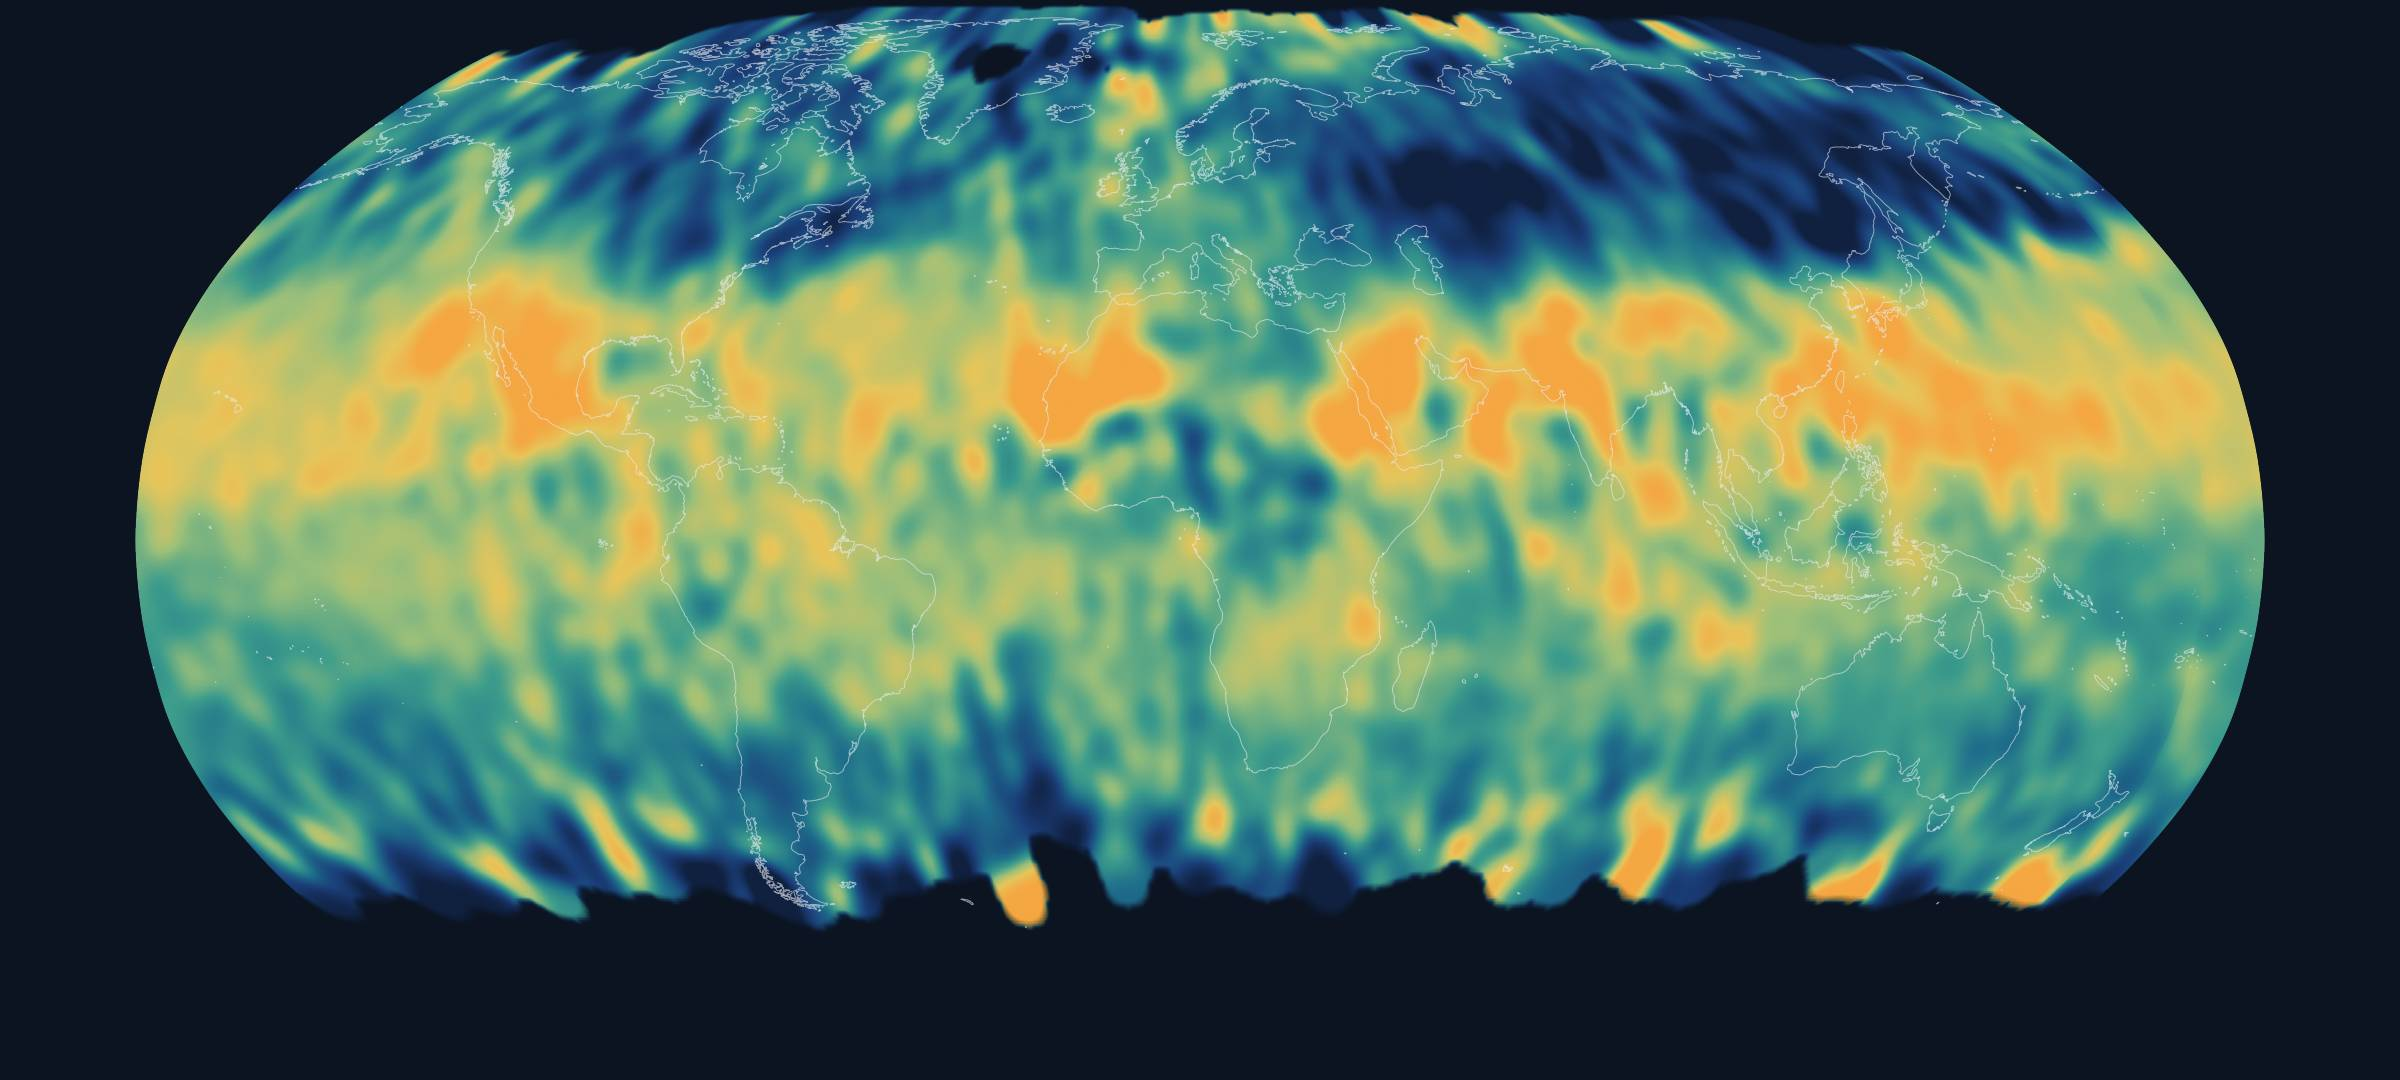
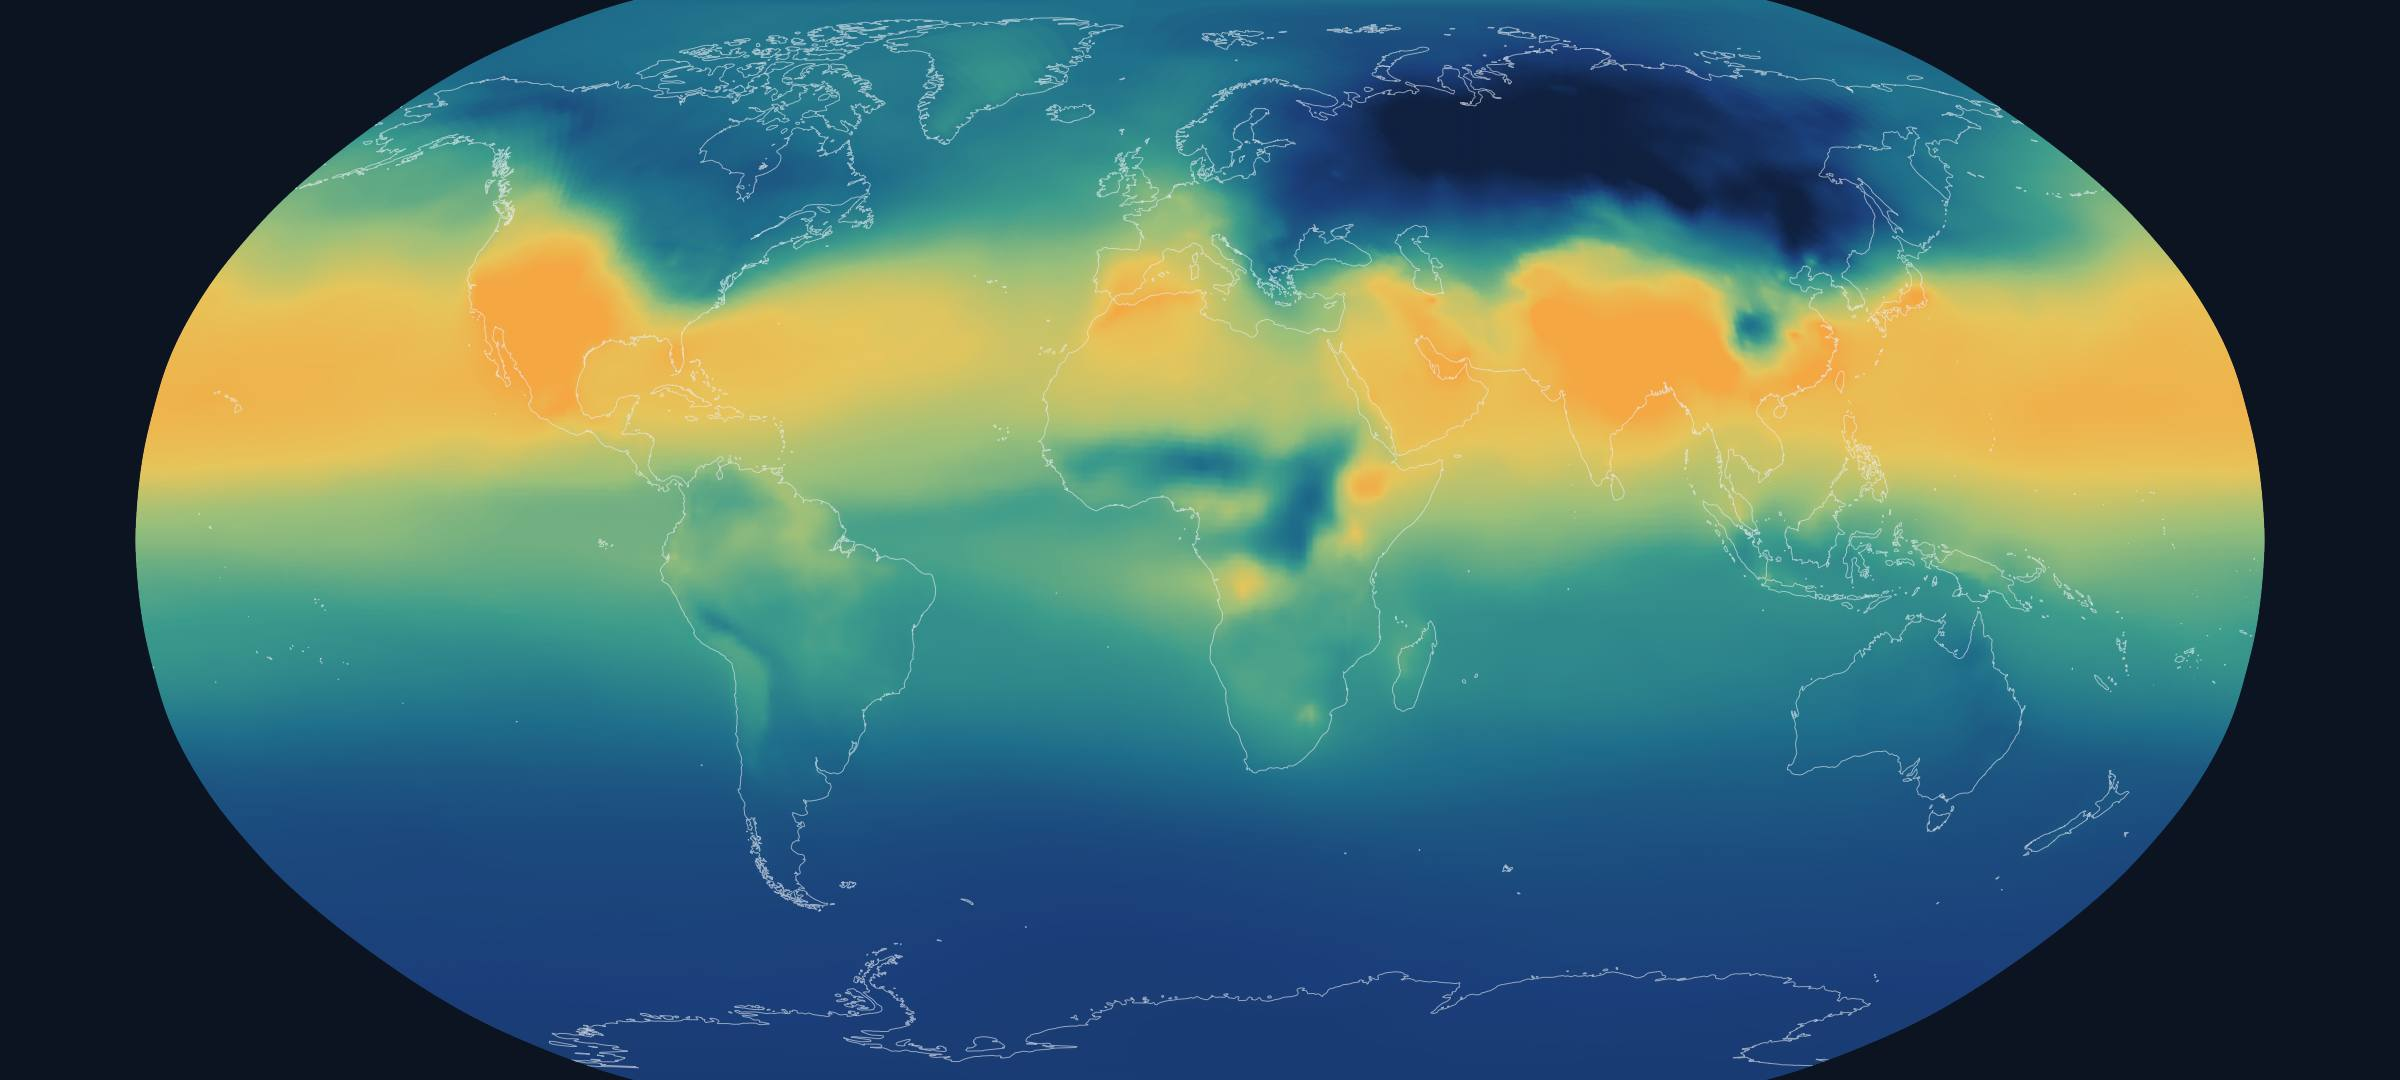
oco: hero from the CATRINE C90 JJA 2019 mean XCO2 field, plus a 46-frame GIF

diff --git a/oco/data/README.md b/oco/data/README.md
@@ -91,8 +91,8 @@ snow 0.955/0.156/0.052, conifer 0.652/0.261/0.112, dry grass 0.517/0.597/0.452.
 
 `img/xco2_hero.jpg` (2400 × 1080, dark background, < 400 kB): **JJA 2019 mean XCO₂ from the AtmosTransport CATRINE
 C90 run** (`co2_natural`, dry-air-mass-weighted column, 8 snapshots/day × 92 days, nearest-cell regridded to 0.25°,
-σ = 1 cell smoothing, dark-blue → gold ramp, subtle coastlines, no axes/labels). `img/xco2_hero_jja2019.gif` is the
-same field day by day at 12 UTC (92 frames). An observation-based alternative is produced by
+σ = 1 cell smoothing, dark-blue → gold ramp, subtle coastlines, no axes/labels). `img/xco2_hero_jja2019.gif` (5.6 MB, 1000 × 450, 46 frames) is the
+same field every second day at 12 UTC. An observation-based alternative is produced by
 `make_xco2_composite.py` + `make_xco2_hero.py` (OCO-2 Lite v11.2, JJA 2021–2024, 1° medians incl. ocean glint,
 σ = 2 cells, Antarctica removed) — smoother than round 1 but still streaky from the glint sampling, which is why the
 model field is used.
